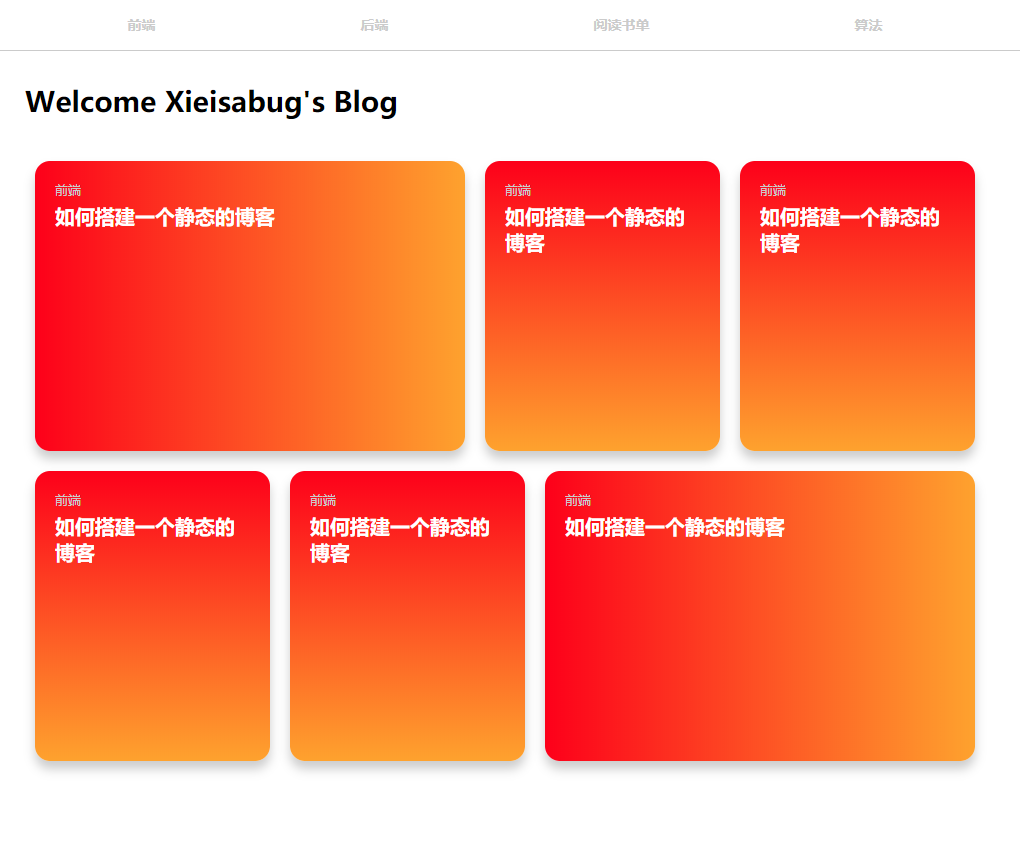
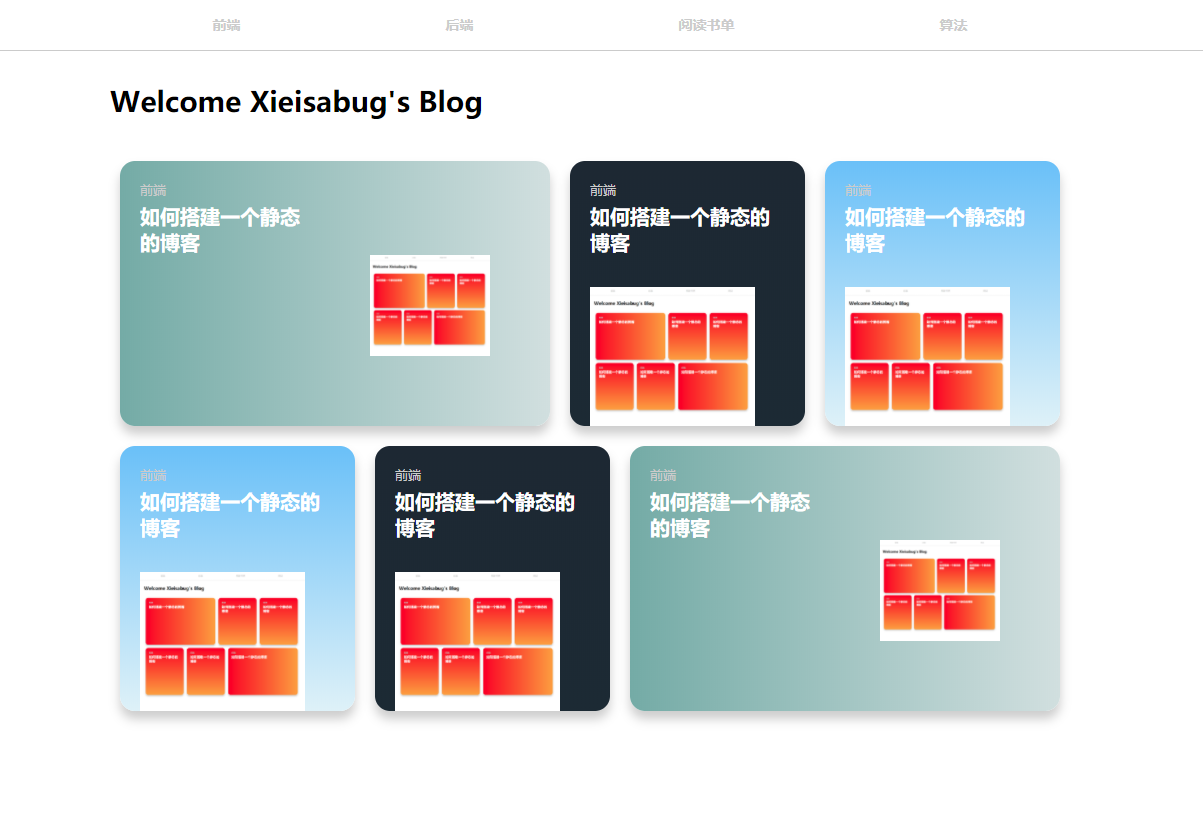
update css

diff --git a/index.html b/index.html
@@ -5,6 +5,7 @@
         body {
             padding: 0;
             margin: 0;
+            font-family: Microsoft YaHei, sans-serif;
         }
         .menu {
             width: 960px;
@@ -14,7 +15,7 @@
             height: 50px;
             line-height: 50px;
             font-size: 14px;
-            color: #ccc;
+            color: #aaa;
             font-weight: 800;
         }
         .menu-item {
@@ -37,6 +38,10 @@
             line-height: 100px;
             font-weight: bold;
         }
+        .normal-href {
+            color: black;
+            text-decoration: none;
+        }
 
         .recent {
             width: 960px;
@@ -52,6 +57,7 @@
             padding: 20px;
             box-shadow: rgba(0, 0, 0, 0.2) 0 8px 16px 0;
             color: white;
+            cursor: pointer;
         }
         .horizontal-item {
             flex: 2;
@@ -62,7 +68,7 @@
         }
         .item-category {
             font-size: 13px;
-            color: #ccc;
+            color: #efefef;
         }
         .item-title {
             font-size: 20px;
@@ -92,24 +98,24 @@
     <div class="menu-item">算法</div>
 </div>
 <div class="content">
-    <div class="title">Welcome Xieisabug's Blog</div>
+    <div class="title"><a href="./index.html" class="normal-href">Welcome Xieisabug's Blog</a></div>
 
     <div class="recent">
         <div class="row">
             <div class="horizontal-item"
-                 style="background-image: linear-gradient(to right, red, orange); background: red; background: linear-gradient(to right, red, orange);">
+                 style="background-image: linear-gradient(to right, rgb(115, 172, 168), rgb(210, 224, 224)); background: red; background: linear-gradient(to right, rgb(115, 172, 168), rgb(210, 224, 224));">
                 <div class="item-category">前端</div>
                 <div class="item-title">如何搭建一个静态的博客</div>
                 <img src="./page.png" alt="page" class="item-image">
             </div>
             <div class="vertical-item"
-                 style="background-image: linear-gradient(red, orange); background: red; background: linear-gradient(red, orange);">
+                 style="background-image: linear-gradient(rgb(22, 35, 48), rgb(21, 37, 49)); background: red; background: linear-gradient(rgb(22, 35, 48), rgb(21, 37, 49));">
                 <div class="item-category">前端</div>
                 <div class="item-title">如何搭建一个静态的博客</div>
                 <img src="./page.png" alt="page" class="item-image">
             </div>
             <div class="vertical-item"
-                 style="background-image: linear-gradient(red, orange); background: red; background: linear-gradient(red, orange);">
+                 style="background-image: linear-gradient(rgb(105, 192, 251), rgb(223, 241, 249)); background: red; background: linear-gradient(rgb(105, 192, 251), rgb(223, 241, 249));">
                 <div class="item-category">前端</div>
                 <div class="item-title">如何搭建一个静态的博客</div>
                 <img src="./page.png" alt="page" class="item-image">
@@ -118,23 +124,24 @@
 
         <div class="row">
             <div class="vertical-item"
-                 style="background-image: linear-gradient(red, orange); background: red; background: linear-gradient(red, orange);">
+                 style="background-image: linear-gradient(rgb(105, 192, 251), rgb(223, 241, 249)); background: red; background: linear-gradient(rgb(105, 192, 251), rgb(223, 241, 249));">
                 <div class="item-category">前端</div>
                 <div class="item-title">如何搭建一个静态的博客</div>
-                <img src="" alt="">
+                <img src="./page.png" alt="page" class="item-image">
             </div>
             <div class="vertical-item"
-                 style="background-image: linear-gradient(red, orange); background: red; background: linear-gradient(red, orange);">
+                 style="background-image: linear-gradient(rgb(22, 35, 48), rgb(21, 37, 49)); background: red; background: linear-gradient(rgb(22, 35, 48), rgb(21, 37, 49));">
                 <div class="item-category">前端</div>
                 <div class="item-title">如何搭建一个静态的博客</div>
-                <img src="" alt="">
+                <img src="./page.png" alt="page" class="item-image">
             </div>
             <div class="horizontal-item"
-                 style="background-image: linear-gradient(to right, red, orange); background: red; background: linear-gradient(to right, red, orange);">
+                 style="background-image: linear-gradient(to right, rgb(115, 172, 168), rgb(210, 224, 224)); background: red; background: linear-gradient(to right, rgb(115, 172, 168), rgb(210, 224, 224));">
                 <div class="item-category">前端</div>
                 <div class="item-title">如何搭建一个静态的博客</div>
-                <img src="" alt="">
+                <img src="./page.png" alt="page" class="item-image">
             </div>
+
         </div>
 
     </div>
